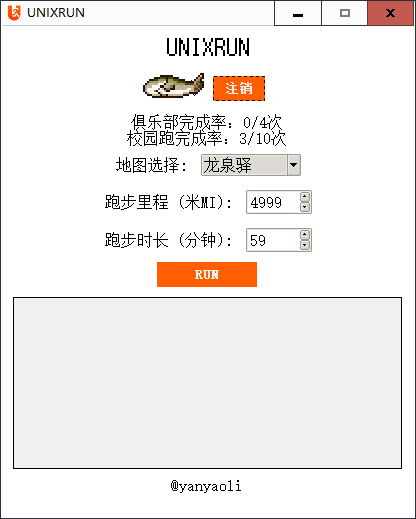
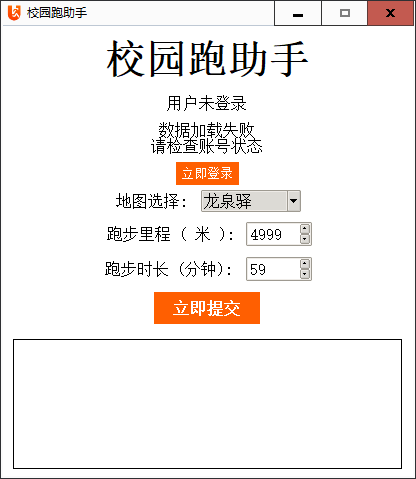
bug fixes

Changed region(s): [[0.0, 0.0, 1.0, 0.7015], [0.0312, 0.8768, 0.9688, 0.9645], [0.0312, 0.9645, 0.0625, 0.9937]]

diff --git a/unirun.py b/unirun.py
@@ -8,7 +8,6 @@ from tkinter import messagebox
 import base64
 import json
 import threading
-import os
 
 
 class Icon(object):
@@ -26,12 +25,12 @@ def load_info_thread():
     threading.Thread(target=load_info).start()
 
 root = tk.Tk()
-root.title("UNIXRUN")
+root.title("校园跑助手")
 
 screen_width = root.winfo_screenwidth()
 screen_height = root.winfo_screenheight()
 window_width = 410
-window_height = 490
+window_height = 450
 position_top = int(screen_height / 2 - window_height / 2)
 position_right = int(screen_width / 2 - window_width / 2)
 root.geometry(f"{window_width}x{window_height}+{position_right}+{position_top}")
@@ -39,46 +38,42 @@ root.geometry(f"{window_width}x{window_height}+{position_right}+{position_top}")
 root.resizable(False, False)
 
 style = ttk.Style()
-style.theme_use("clam")
+style.theme_use('clam')
 
 default_font = ("思源黑体 CN Heavy", 12)
 result_font = ("思源黑体 CN Heavy", 16)
-button_font = ("思源黑体 CN Heavy", 10, "bold")
-title_font = ("Terminal", 20)
+title_font = ('思源黑体 CN Heavy', 30, 'bold')
+button_font = ("思源黑体 CN Heavy", 12, 'bold')
 bg_color = "white"
 fg_color = "black"
-button_color = "#FF5F01"
-button_font_color = "#f0f0f0"
-result_font_color = "black"
-result_bg_color = "#f0f0f0"
+button_bg_color = "#FF5F01"
+button_fg_color = "white"
 
-style.configure('TButton', font=button_font, foreground=button_font_color, background=button_color, borderwidth=0,
-                relief='flat')
+style.configure('TButton', font=button_font, foreground=button_fg_color, background=button_bg_color, relief='flat')
 
 root.configure(bg=bg_color)
 root.iconbitmap('tmp.ico')
-
 
 # 登录窗口
 def show_login_window():
     login_window = tk.Toplevel(root, bg=bg_color)
     login_screen_width = login_window.winfo_screenwidth()
     login_screen_height = login_window.winfo_screenheight()
-    login_window_width = 210
-    login_window_height = 150
+    login_window_width = 300
+    login_window_height = 200
     login_position_top = int(login_screen_height / 2 - login_window_height / 2)
     login_position_right = int(login_screen_width / 2 - login_window_width / 2)
     login_window.geometry(f"{login_window_width}x{login_window_height}+{login_position_right}+{login_position_top}")
     login_window.resizable(False, False)
     login_window.iconbitmap('tmp.ico')
 
-    login_title_label = tk.Label(login_window, text="用户登录", font=title_font, bg=bg_color, fg=fg_color)
-    login_title_label.pack()
+    login_title_label = tk.Label(login_window,text="账号登录", font=title_font, bg=bg_color, fg="#FF5F01")
+    login_title_label.pack(padx=10, pady=10)
 
-    phone_entry = tk.Entry(login_window)
+    phone_entry = tk.Entry(login_window, width=20, font=default_font, relief="solid", borderwidth=1, bg=bg_color, fg=fg_color)
     phone_entry.pack(padx=5, pady=5)
 
-    password_entry = tk.Entry(login_window)
+    password_entry = tk.Entry(login_window, width=20, font=default_font, relief="solid", borderwidth=1, bg=bg_color, fg=fg_color)
     password_entry.pack(padx=5, pady=5)
 
     def clear_placeholder(event):
@@ -88,7 +83,7 @@ def show_login_window():
         if event.widget.get() == '':
             event.widget.insert(0, event.widget.placeholder)
 
-    phone_entry.placeholder = "请输入手机号"
+    phone_entry.placeholder = "请输入手机号码"
     phone_entry.insert(0, phone_entry.placeholder)
     phone_entry.bind("<FocusIn>", clear_placeholder)
     phone_entry.bind("<FocusOut>", add_placeholder)
@@ -103,20 +98,18 @@ def show_login_window():
         password = password_entry.get()
         threading.Thread(target=login, args=(phone, password)).start()
         if login(phone, password):
-            messagebox.showinfo("登录成功", "欢迎回来！")
             login_window.destroy()
             load_info_thread()
             return True
         else:
-            messagebox.showerror("登录失败", "登录失败，请检查手机号或者密码是否正确。")
+            messagebox.showerror("校园跑助手", "登录失败，请检查手机号和密码是否正确")
             return False
 
-    login_button = tk.Button(login_window, text="登录", bg=button_color, font=button_font, fg=button_font_color,
-                             command=run_login)
-    login_button.pack()
+    login_button = ttk.Button(login_window, text="登录", command=run_login, style='TButton')
+    login_button.pack(padx=5, pady=10)
 
 def toggle_login():
-    if login_status.get() == "登录":
+    if login_status.get() == "立即登录":
         show_login_window()
     else:
         logout_thread()
@@ -124,16 +117,10 @@ def toggle_login():
 def logout():
     with open('user_data.json', 'w') as f:
         json.dump({}, f)
-    load_info_thread()
-
-
-# 加载用户数据
-def load_info():
     if check_login_status() == False:
-        notice = "未登录"
-        userInfo.set(f'{notice}')
-        userJoinNum.set('')
-        login_status.set("登录")
+        userInfo.set('用户未登录')
+        login_status.set("立即登录")
+        userJoinNum.set('账号已退出\n请重新登录')
     else:
         data = load_data()
         studentName = data.get('studentName')
@@ -142,57 +129,91 @@ def load_info():
         token = load_data().get('token')
         user_join_num = get_join_num(token)
         userJoinNum.set(f'{user_join_num}')
-        login_status.set("注销")
+        login_status.set("退出登录")
 
 # 新增跑步记录
 def post_new_run_record():
+    result_text.config(state="normal")
+    result_text.delete(1.0, tk.END)
     runDistance = int(run_distance_entry.get())
     runTime = int(run_time_entry.get())
     map_choice = getMapChoice()
     if runDistance <= 0 or runTime <= 0:
         result_text.insert(tk.END, "请输入有效的跑步距离和时间。\n")
+        result_text.config(state="disabled")
         return
     try:
         result = new_run_record(runDistance, runTime, map_choice)
         result_text.insert(tk.END, result)
         load_info_thread()
+        result_text.config(state="disabled")
     except ValueError as e:
         result_text.insert(tk.END, f"运行时发生错误：{e}\n")
+        result_text.config(state="disabled")
+
+def show_about_info(event):
+    about_info_window = tk.Toplevel(root, bg=bg_color)
+    about_info_window.title("校园跑助手")
+    about_info_screen_width = about_info_window.winfo_screenwidth()
+    about_info_screen_height = about_info_window.winfo_screenheight()
+    about_info_window_width = 410
+    about_info_window_height = 150
+    about_info_position_top = int(about_info_screen_height / 2 - about_info_window_height / 2)
+    about_info_position_right = int(about_info_screen_width / 2 - about_info_window_width / 2)
+    about_info_window.geometry(f"{about_info_window_width}x{about_info_window_height}+{about_info_position_right}+{about_info_position_top}")
+    about_info_window.resizable(False, False)
+    about_info_window.iconbitmap('tmp.ico')
+
+    about_info_label = tk.Label(about_info_window, text="校园跑助手", font=title_font, bg=bg_color, fg=fg_color)
+    about_info_label.pack(padx=5, pady=5)
+
+    about_info_text = tk.Text(about_info_window, height=4, width=40, font=('思源黑体', 16), fg=fg_color, relief="solid", bd=0)
+    about_info_text.pack(padx=10, pady=5)
+    about_info_text.insert(tk.END, "UNIRUN·校园跑助手\n""Developer: yanyaoli\n""Repo: github.com/yanyaoli/unirun")
+    about_info_text.config(state="disabled")
+
+label_title = tk.Label(root, text="校园跑助手", font=title_font, bg=bg_color, fg=fg_color)
+label_title.bind("<Button-1>", show_about_info)
+label_title.grid(row=0, column=0, padx=10, pady=10)
 
 
-label_title = tk.Label(root, text="UNIXRUN", font=title_font, bg=bg_color, fg=fg_color)
-label_title.grid(row=0, column=0, padx=5, pady=5)
+# 加载用户数据
+def load_info():
+    if check_login_status() == False:
+        userInfo.set('用户未登录')
+        login_status.set("立即登录")
+        userJoinNum.set('数据加载失败\n请检查账号状态')
+    else:
+        data = load_data()
+        studentName = data.get('studentName')
+        userInfo.set(f'{studentName}')
 
-# 用户信息框
-frame_user_info = tk.Frame(root, bg=bg_color)
-frame_user_info.grid(row=1, column=0, padx=5, pady=5)
+        token = load_data().get('token')
+        user_join_num = get_join_num(token)
+        userJoinNum.set(f'{user_join_num}')
+        login_status.set("退出登录")
 
-userInfo = tk.StringVar()
-userJoinNum = tk.StringVar()
+userInfo = tk.StringVar(value="正在加载")
+user_info_label = tk.Label(root, textvariable=userInfo, font=default_font, bg=bg_color, fg=fg_color)
+user_info_label.grid(row=1, column=0, padx=5)
 
-user_info_label = tk.Label(frame_user_info, textvariable=userInfo, font=default_font, bg=bg_color, fg=fg_color)
-user_info_label.pack(side=tk.LEFT, padx=5, pady=5)
+userJoinNum = tk.StringVar(value="正在加载\n......")
+user_join_num_label = tk.Label(root, textvariable=userJoinNum, font=default_font, bg=bg_color, fg=fg_color)
+user_join_num_label.grid(row=2, column=0, padx=5, pady=5)
 
-frame_user_join_num = tk.Frame(root, bg=bg_color)
-frame_user_join_num.grid(row=2, column=0, padx=5)
+login_status = tk.StringVar(value="立即登录")
+login_button = tk.Button(root, textvariable=login_status, bg=button_bg_color, fg=button_fg_color, font=('思源黑体', 10), command=toggle_login, relief='flat')
+login_button.grid(row=3, column=0, padx=5)
 
-user_join_num_label = tk.Label(frame_user_join_num, textvariable=userJoinNum, font=default_font, bg=bg_color,
-                               fg=fg_color)
-user_join_num_label.pack(side=tk.LEFT, padx=5)
-
-login_status = tk.StringVar()
-login_status.set(load_info_thread())
-login_button = ttk.Button(frame_user_info, textvariable=login_status, width=5, command=toggle_login)
-login_button.pack(side=tk.LEFT, padx=5, pady=5)
 
 # 地图选择
-frame_map = tk.Frame(root, bg=bg_color)
-frame_map.grid(row=3, column=0, padx=5)
+map_frame = tk.Frame(root, bg=bg_color)
+map_frame.grid(row=4, column=0, padx=5)
 
-label_map = tk.Label(frame_map, text="地图选择:", font=default_font, bg=bg_color, fg=fg_color)
-label_map.pack(side=tk.LEFT, padx=5)
+map_label = tk.Label(map_frame, text="地图选择:", font=default_font, bg=bg_color, fg=fg_color)
+map_label.pack(side=tk.LEFT, padx=5)
 
-map_option_menu = ttk.Combobox(frame_map, width=10, font=default_font, state='readonly')
+map_option_menu = ttk.Combobox(map_frame, width=10, font=default_font, state='readonly')
 map_option_menu.pack(side=tk.LEFT, padx=5, pady=5)
 
 map_option_menu['value'] = ('航空港', '龙泉驿')
@@ -208,48 +229,36 @@ def getMapChoice():
     else:
         return "龙泉驿"
 
-default_running_time = tk.StringVar()
-default_running_distance = tk.StringVar()
+default_run_time = tk.StringVar(value='59')
+default_run_distance = tk.StringVar(value='4999')
 
 # 跑步距离输入框
-frame_distance = tk.Frame(root, bg=bg_color)
-frame_distance.grid(row=4, column=0, padx=5, pady=5)
+run_distance_frame = tk.Frame(root, bg=bg_color)
+run_distance_frame.grid(row=5, column=0, padx=5, pady=3)
 
-label_distance = tk.Label(frame_distance, text="跑步里程 (米MI):", font=default_font, bg=bg_color, fg=fg_color)
-label_distance.pack(side=tk.LEFT, padx=5, pady=5)
+distance_label = tk.Label(run_distance_frame, text="跑步里程 ( 米 ):", font=default_font, bg=bg_color, fg=fg_color)
+distance_label.pack(side=tk.LEFT, padx=5, pady=3)
 
-run_distance_entry = ttk.Spinbox(frame_distance, width=5, textvariable=default_running_distance, font=default_font)
-run_distance_entry.pack(side=tk.LEFT, padx=5)
-default_running_distance.set('4999')
+run_distance_entry = ttk.Spinbox(run_distance_frame, width=5, textvariable=default_run_distance, font=default_font, from_=1, to=5000, increment=99)
+run_distance_entry.pack(side=tk.LEFT, padx=3)
 
 # 跑步时间输入框
-frame_time = tk.Frame(root, bg=bg_color)
-frame_time.grid(row=5, column=0, padx=5)
+time_frame = tk.Frame(root, bg=bg_color)
+time_frame.grid(row=6, column=0, padx=5, pady=3)
 
-label_time = tk.Label(frame_time, text="跑步时长 (分钟):", font=default_font, bg=bg_color, fg=fg_color)
-label_time.pack(side=tk.LEFT, padx=5, pady=5)
+time_label = tk.Label(time_frame, text="跑步时长 (分钟):", font=default_font, bg=bg_color, fg=fg_color)
+time_label.pack(side=tk.LEFT, padx=5, pady=3)
 
-run_time_entry = ttk.Spinbox(frame_time, width=5, textvariable=default_running_time, font=default_font)
-run_time_entry.pack(side=tk.LEFT, padx=5, pady=5)
-default_running_time.set('59')
-
-frame_buttons = tk.Frame(root, bg=bg_color)
-frame_buttons.grid(row=6, column=0, padx=5, pady=5)
+run_time_entry = ttk.Spinbox(time_frame, width=5, textvariable=default_run_time, font=default_font, from_=30, to=100, increment=10)
+run_time_entry.pack(side=tk.LEFT, padx=5, pady=3)
 
 # 提交按钮
-button_run = ttk.Button(frame_buttons, text="RUN", command=post_new_run_record_thread, style='TButton')
-button_run.pack(side=tk.LEFT, padx=5)
+button_run = ttk.Button(root, width=10, text="立即提交", command=post_new_run_record_thread, style='TButton')
+button_run.grid(row=7, column=0, padx=5, pady=5)
 
 # 结果显示
-result_text = tk.Text(root, height=8, width=35, font=result_font, bg=result_bg_color, fg=result_font_color,
-                      relief="solid")
-result_text.grid(row=7, column=0, padx=10, pady=5)
-
-# 关于
-label_about_info = tk.Label(root, text="@yanyaoli", font=default_font, bg=bg_color, fg=fg_color)
-label_about_info.grid(row=8, column=0, padx=5)
-
-# 其他初始化操作...
+result_text = tk.Text(root, height=6, width=35, font=result_font, bg=bg_color, fg=fg_color, relief='solid')
+result_text.grid(row=8, column=0, padx=10, pady=10)
 
 if __name__ == '__main__':
     load_info_thread()

diff --git a/app/requests/NewRunRecord.py b/app/requests/NewRunRecord.py
@@ -73,7 +73,7 @@ def new_run_record(runDistance, runTime, map_choice):
         msg = data["msg"]
         if data["code"] == 10000:
             resultDesc = data["response"]["resultDesc"]
-            result = f"跑步里程：{runDistance}米\n跑步时长：{runTime}分钟\n跑步速度：{average:.2f}公里/分钟\n地图选择：{map_choice}\n跑步结果：{resultDesc}"
+            result = f"跑步速度：{average:.2f}分钟/公里\n跑步结果：{resultDesc}"
             return result
         else:
             return msg
